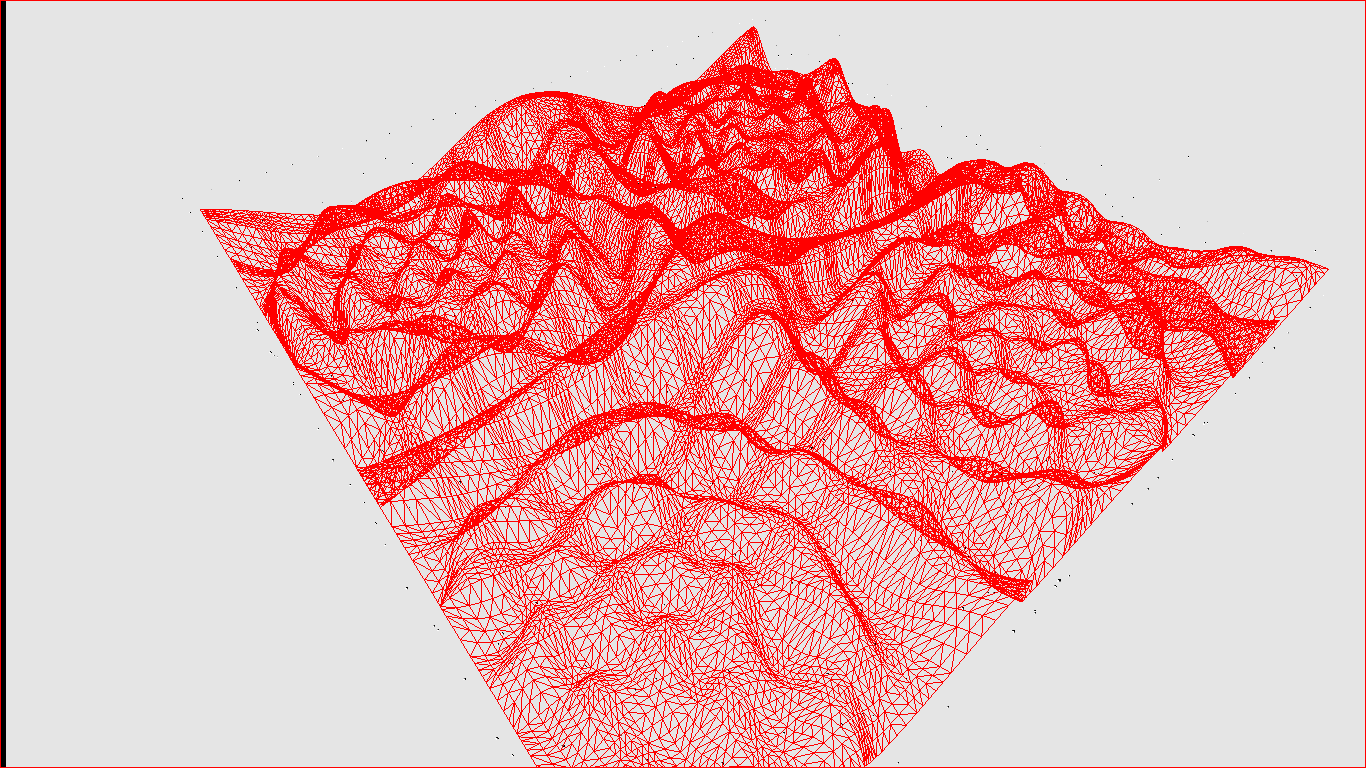
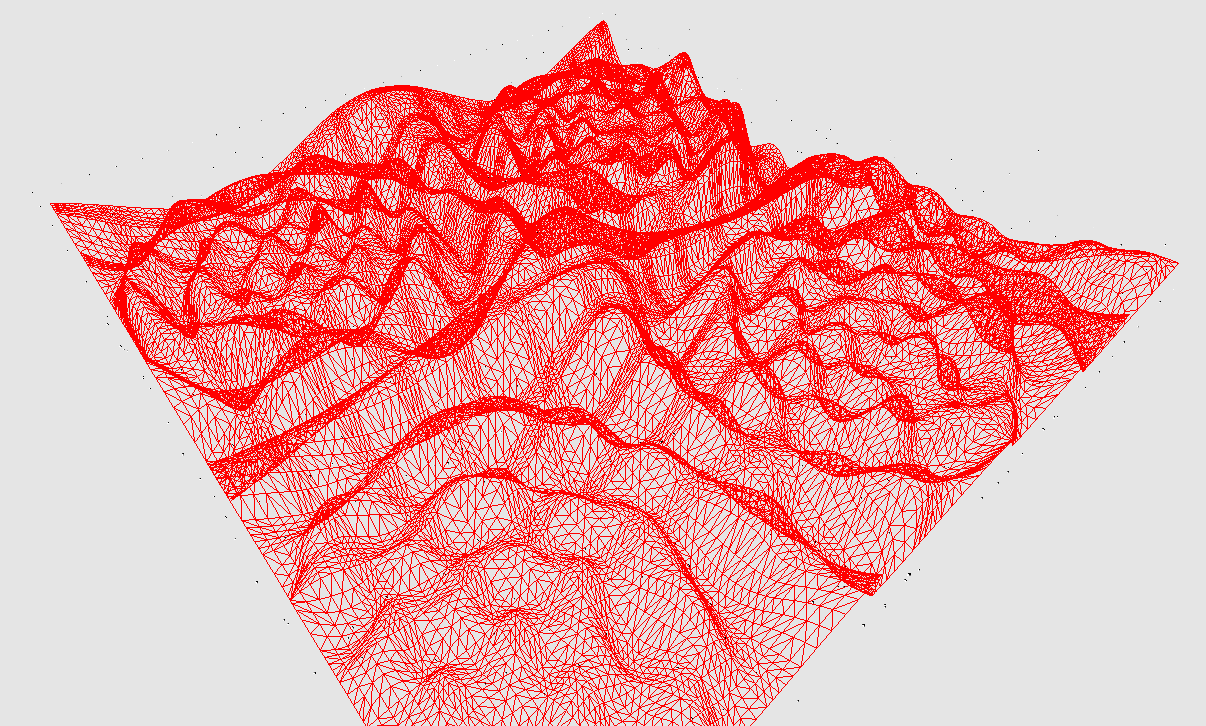
joined images

diff --git a/README.md b/README.md
@@ -2,7 +2,8 @@ GPU_NURBS    code sample - Lucas Payne 2020
 ================================================================================
 Quadratic Non-uniform rational B-splines on the GPU using OpenGL-4 and GLSL.
 Visualized as a moving red wireframe surface, viewable with a fly-around
-controllable camera.
+controllable camera. This is a graphics programming code sample, and will not
+compile without linking with the larger graphics framework.
 
 "NURBS" are a hugely popular surface description used in computer-aided design.
 The real-time rendering of these surface is an interesting problem.
@@ -12,8 +13,7 @@ for high-quality non-polygonal surface rendering?
 The main mathematical reference used in creating this demo is
     The NURBS book, Piegl and Tiller (1997).
 
-![tessellation1](https://github.com/LucasPayne/GPU_NURBS_code_sample/blob/main/images/tessellation1.png?raw=true)
-![tessellation2](https://github.com/LucasPayne/GPU_NURBS_code_sample/blob/main/images/tessellation2.png?raw=true)
+![tessellation](https://github.com/LucasPayne/GPU_NURBS_code_sample/blob/main/images/tessellation.png?raw=true)
 
 Files
 ================================================================================
